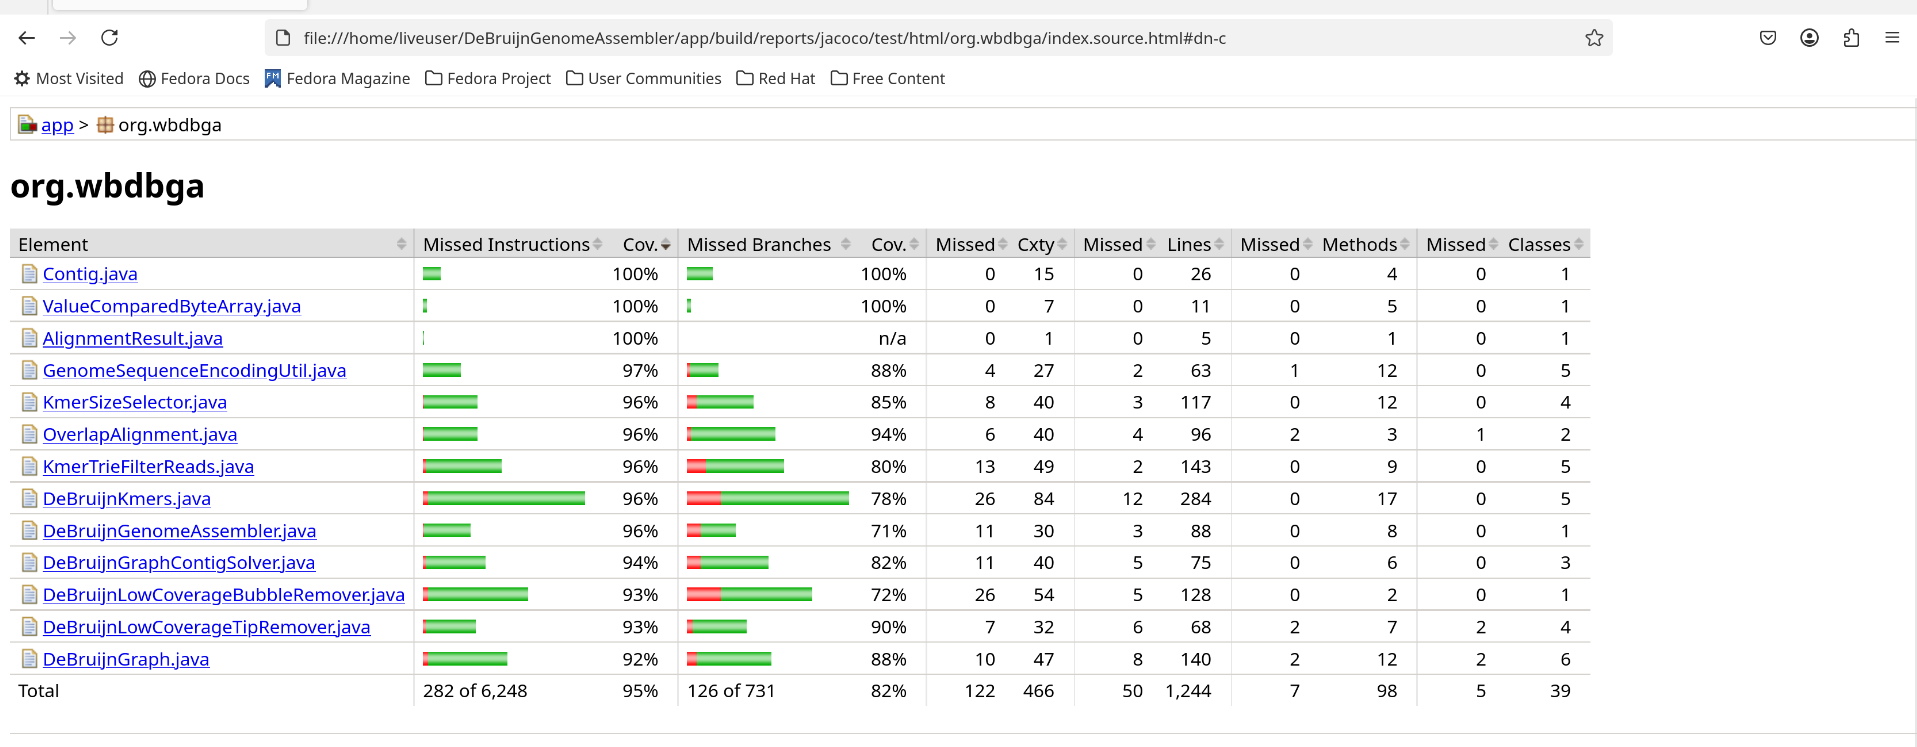
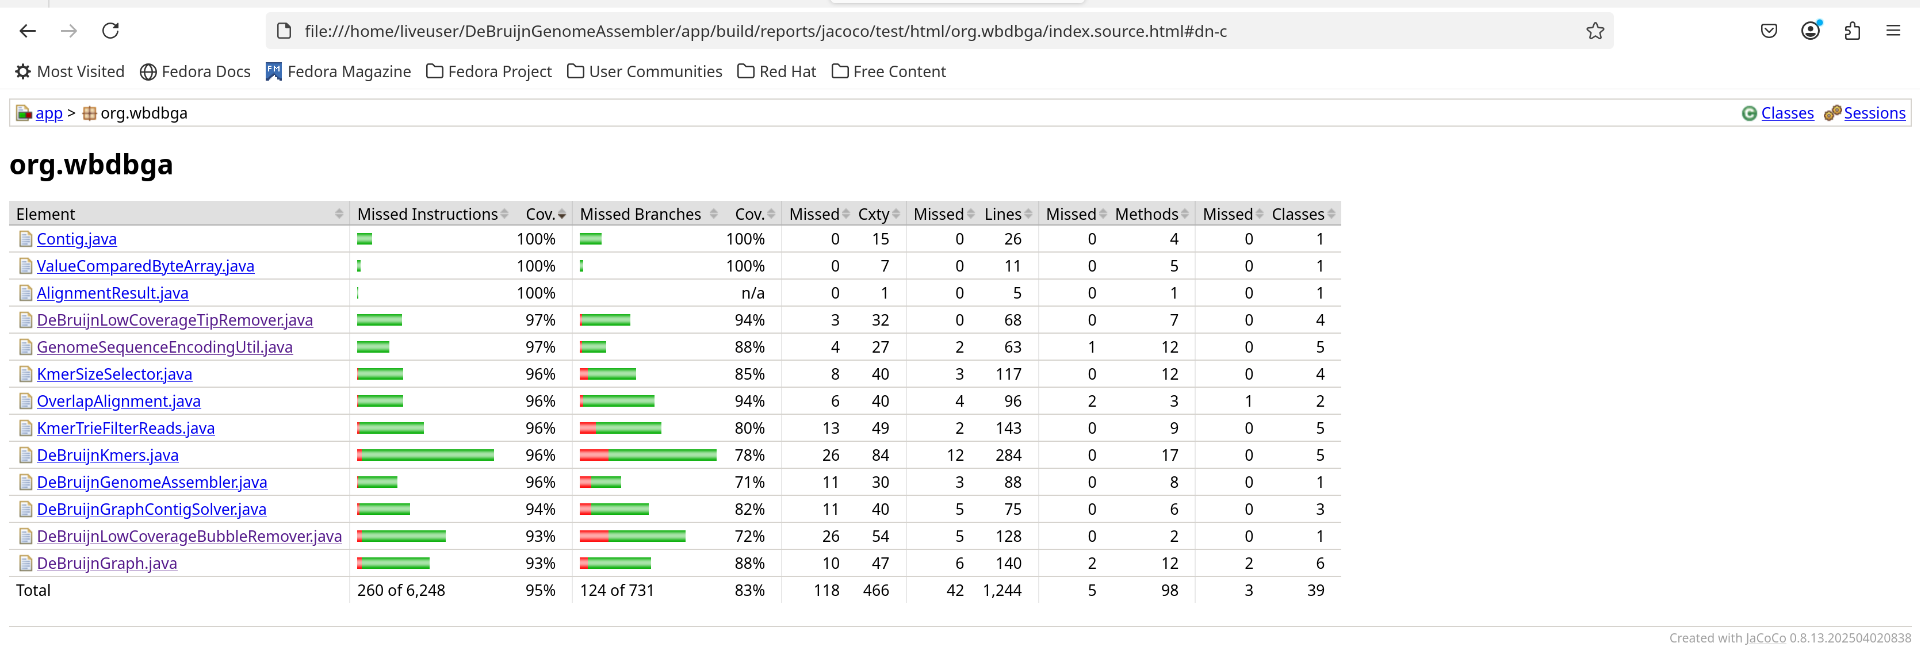
add some useful comments and update unit test summary and unit test code coverage report screenshots with latest additional tests added to PR

diff --git a/app/src/test/java/org/wbdbga/DeBruijnGenomeAssemblerTest.java b/app/src/test/java/org/wbdbga/DeBruijnGenomeAssemblerTest.java
@@ -248,6 +248,11 @@ class DeBruijnGenomeAssemblerTest {
     // A real extrachromosomal circular human DNA example from van Loon, N., Miller, D., & Murnane, J. P. (1994). Formation of extrachromosomal circular DNA in HeLa cells by nonhomologous recombination. Nucleic acids research, 22(13), 2447–2452. https://doi.org/10.1093/nar/[phone redacted] , not from a healthy cell, except with the one "N" (unknown) replaced with "T":
     final static String eccDNA80FromHeLaS3 = "AATTCAAAGGTGTCTCTAATCCTCTTCCACTGAACCTCTTGCTGTAACAGGCAAGGATCCTCTGCCAGGCAGCCTTGAGCCCAGACGAGGGGAAACCTGACTATACTCCGTGCATGATTTTCCCCAATAGCTTTCTTTATTGAGATAATTTCATTGTTGTTGAAGGAGAGGTAGAGGTGTTCTCAAGCCCACTGAGGGAAAGGGTTTGGCTTATTTGGGGGAAAACATGTAGTGGAGAATGTAGGGGGAGGATGTGGGAAGATGGTCCTCGAAATGCAGGCAGGCAGACCAACCAAGAAGGCCTTACTATATGCCTTGTTGAGTCTGGAGTTTATGCATGTGGGAAGTTAGGATCCAAACTTACACAATTTTCACATGATAGAAGTGG";
     // (But small eccDNAs do also occur naturally in healthy human cells see Møller, H.D., Mohiyuddin, M., Prada-Luengo, I. et al. Circular DNA elements of chromosomal origin are common in healthy human somatic tissue. Nat Commun 9, 1069 (2018). https://doi.org/10.1038/s41467-018-03369-8 .)
+
+    // By the way, you will notice that the above sequence contains at least one repeated 10mer, e.g. ATGTGGGAAG, meaning single contig assembly gets tricky when k is <= 11 (de Bruijn graph edges are between nodes of (k-1), but for k > 11 should be easily single contig.)
+    // (One can confirm this using, from the util folder, `java GenerateNoisyReadsFromWholeGenomeFasta --input_fasta eccDNA80S3_full_sequence.fasta --read_length 25 --error_probability 0 --read_coverage 10 > ../examples/eccDNA80_no_errors_25bp_reads_10x_coverage.txt` 
+    // where eccDNA80S3_full_sequence.fasta is created from the sequence above, and then `java -jar ./app/build/libs/app.jar --k 11 < examples/eccDNA80_no_errors_25bp_reads_10x_coverage.txt`.)
+
     public static List<String> getEccDNA80Reads(boolean withCircularOverlap) {
         return getEccDNA80Reads(withCircularOverlap, 15, 30, 5, 5);
     }

diff --git a/util/GenerateNoisyReadsFromWholeGenomeFasta.java b/util/GenerateNoisyReadsFromWholeGenomeFasta.java
@@ -38,6 +38,11 @@ public class GenerateNoisyReadsFromWholeGenomeFasta {
         for (int readIdx = 0; readIdx < numReads; readIdx++) {
             // extract a read
             int readStart = (int)Math.round(this.random.nextDouble()*(sequenceLength-1));
+            // Note this generates synthetic sequencer reads with circular overlap on purpose
+            // as sequencer reads from our example datasets should have this property
+            // (e.g. definitely phi x174, carsonella ruddii, and E. coli, and I think B. brevis as well)
+            // and to show off that our assembler can correct it.
+            // A flag may be added to allow generating data without circular overlap in the near future.
             int readEnd = readStart + readLength; // can go beyond sequence length, we will sample modulo for circular sample
             StringBuffer readSb = new StringBuffer();
             for (int i = readStart; i < readEnd; i++) {